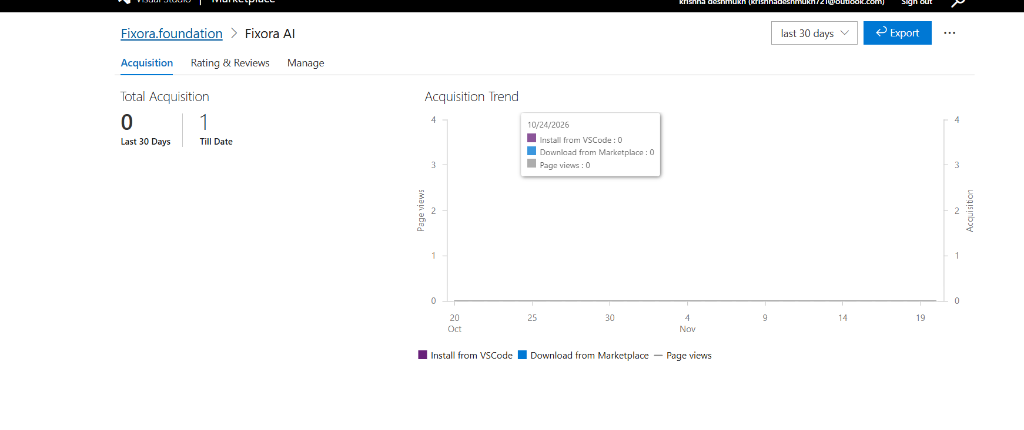
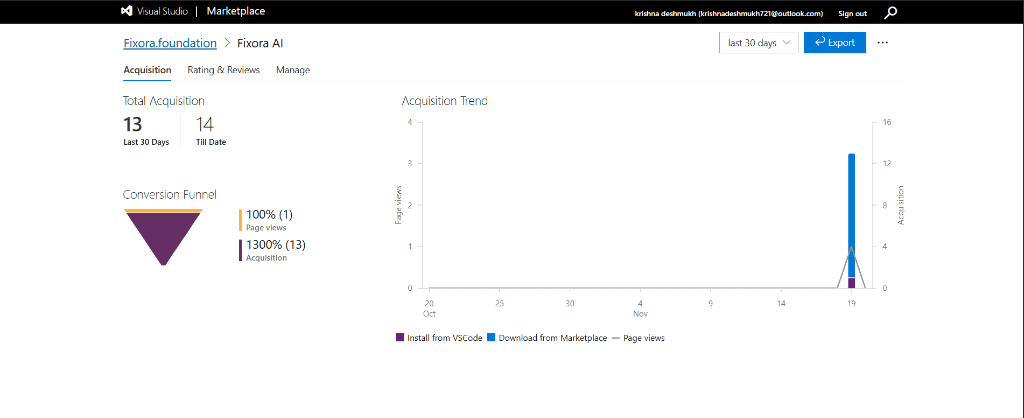
docs: Update README with highlighted VS Code Marketplace search and latest analytics (14 acquisitions)

diff --git a/README.md b/README.md
@@ -28,9 +28,15 @@
 ---
 
 <p align="center">
+  <img src="media/vscode-search-highlight.png" width="480" alt="Fixora AI in VS Code Extensions Marketplace" />
+  <br>
+  <em>Fixora AI live and discoverable in the official VS Code Marketplace search results.</em>
+</p>
+
+<p align="center">
   <img src="media/marketplace-live.png" width="800" alt="Fixora AI Published on Marketplace" />
   <br>
-  <em>Fixora AI officially verified and published by Fixora.foundation on the Visual Studio Marketplace.</em>
+  <em>Official Publisher Analytics: Active on the Visual Studio Marketplace with 14 acquisitions.</em>
 </p>
 
 ---
